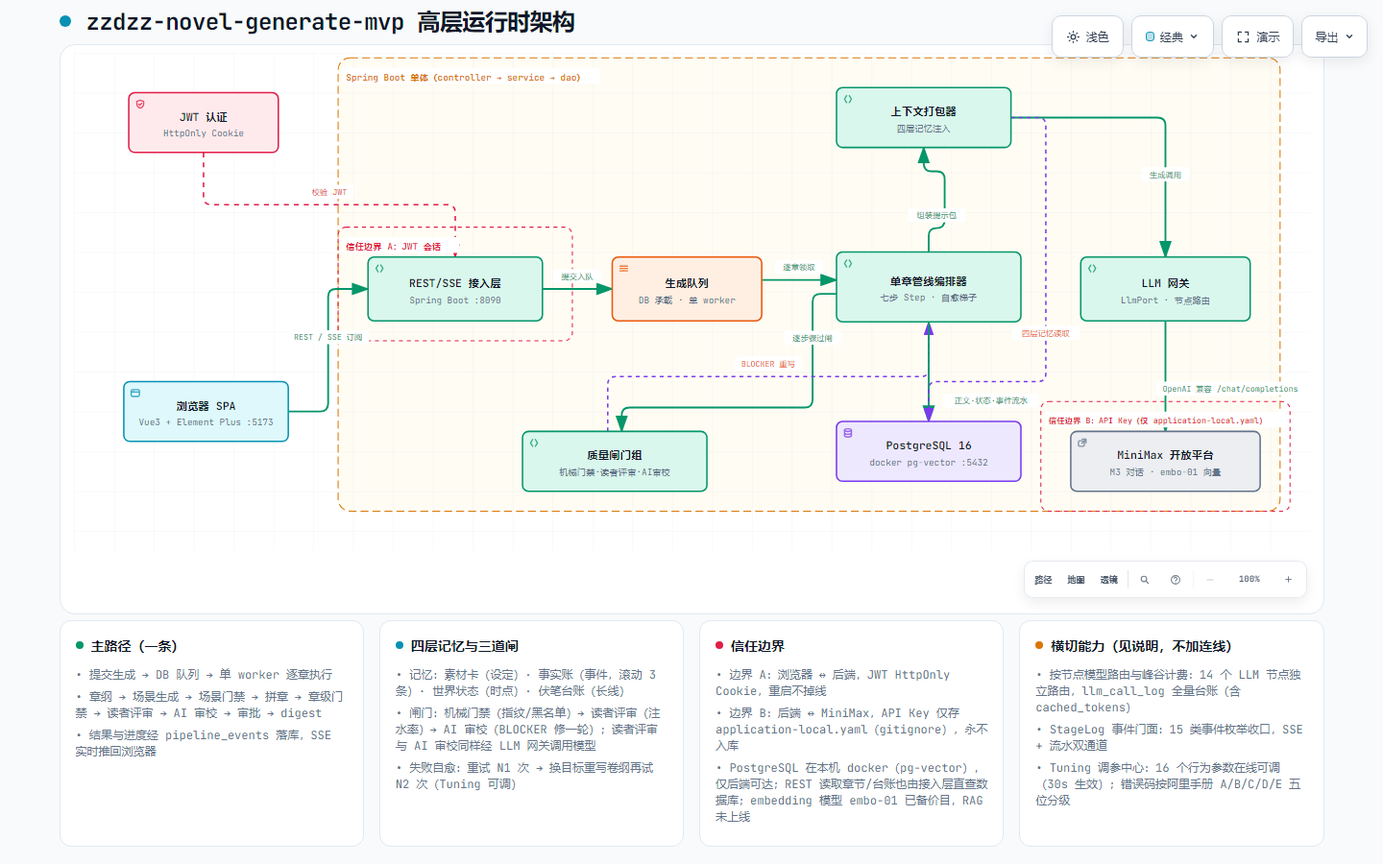
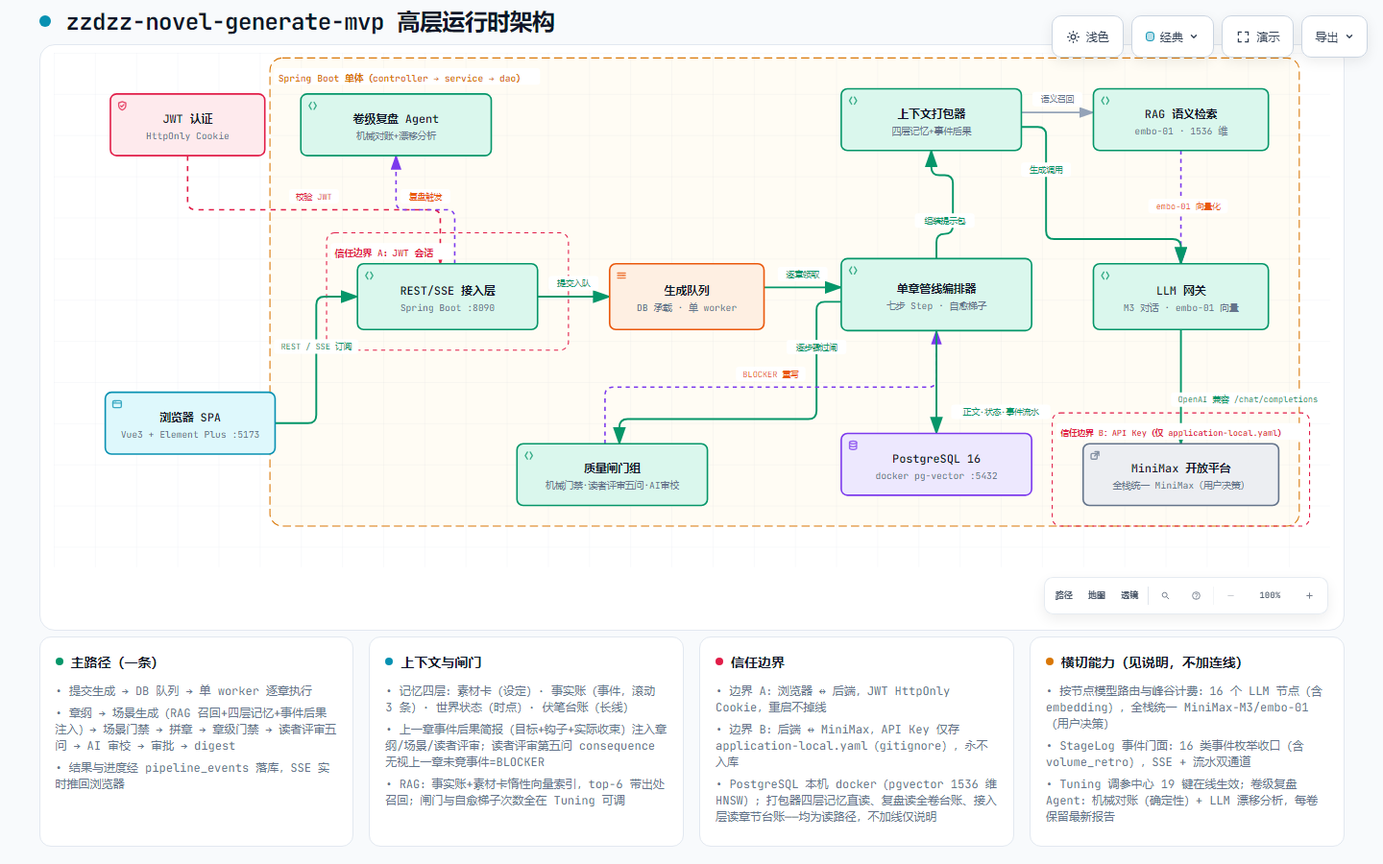
docs(architecture): 架构图 v2 纳入 RAG 与卷级复盘组件
12 组件：新增 RAG 语义检索（embo-01 向量化）与卷级复盘 Agent（机械对账+漂移分析）；主路径不变，连线不增（13 条），辅助说明卡片补充调参中心与事件门面；validate 0 诊断、四档视口 containment 全过。

diff --git a/docs/architecture/runtime-architecture.html b/docs/architecture/runtime-architecture.html
@@ -5156,7 +5156,7 @@ OTHER DEALINGS IN THE FONT SOFTWARE.
         <rect width="100%" height="100%" fill="url(#grid)" />
 
         <!-- Boundaries (behind everything) -->
-        <rect data-graph-role="structural-frame" data-composition-frame-kind="region" data-composition-frame-id="0" data-composition-frame-label="Spring Boot 单体（controller → service → dao）" x="265" y="5" width="945" height="455" rx="12" class="c-region" stroke-width="1"/>
+        <rect data-graph-role="structural-frame" data-composition-frame-kind="region" data-composition-frame-id="0" data-composition-frame-label="Spring Boot 单体（controller → service → dao）" x="210" y="5" width="1000" height="455" rx="12" class="c-region" stroke-width="1"/>
 
         <rect data-graph-role="structural-frame" data-composition-frame-kind="security-group" data-composition-frame-id="1" data-composition-frame-label="信任边界 A：JWT 会话" x="265" y="175" width="235" height="114" rx="8" class="c-security-group" stroke-width="1"/>
 
@@ -5164,16 +5164,18 @@ OTHER DEALINGS IN THE FONT SOFTWARE.
 
         <!-- Connection paths (before components for correct z-order) -->
         <path data-edge-from="spa" data-edge-to="api" data-edge-label="REST / SSE 订阅" data-edge-key="0" data-edge-id="spa-api" data-composition-points="215,360;255,360;255,237;295,237" d="M 215 360 L 247 360 Q 255 360 255 352 L 255 245 Q 255 237 263 237 L 295 237" class="a-emphasis" stroke-width="1.8" marker-end="url(#arrowhead-emphasis)"/>
-        <path data-edge-from="auth" data-edge-to="api" data-edge-label="校验 JWT" data-edge-key="1" data-edge-id="auth-api" data-composition-points="130,100;130,152.5;382.5,152.5;382.5,205" d="M 130 100 L 130 144.5 Q 130 152.5 138 152.5 L 374.5 152.5 Q 382.5 152.5 382.5 160.5 L 382.5 205" class="a-security" stroke-width="1.5" marker-end="url(#arrowhead-security)"/>
+        <path data-edge-from="auth" data-edge-to="api" data-edge-label="校验 JWT" data-edge-key="1" data-edge-id="auth-api" data-composition-points="130,100;130,152.5;375.5,152.5;375.5,205" d="M 130 100 L 130 144.5 Q 130 152.5 138 152.5 L 367.5 152.5 Q 375.5 152.5 375.5 160.5 L 375.5 205" class="a-security" stroke-width="1.5" marker-end="url(#arrowhead-security)"/>
         <path data-edge-from="api" data-edge-to="queue" data-edge-label="提交入队" data-edge-key="2" data-edge-id="api-queue" data-composition-points="470,237;540,237" d="M 470 237 L 540 237" class="a-emphasis" stroke-width="1.8" marker-end="url(#arrowhead-emphasis)"/>
         <path data-edge-from="queue" data-edge-to="pipeline" data-edge-label="逐章领取" data-edge-key="3" data-edge-id="queue-pipeline" data-composition-points="690,228;765,228" d="M 690 228 L 765 228" class="a-emphasis" stroke-width="1.8" marker-end="url(#arrowhead-emphasis)"/>
         <path data-edge-from="pipeline" data-edge-to="packer" data-edge-label="组装提示包" data-edge-key="4" data-edge-id="pipeline-packer" data-composition-points="857.5,200;857.5,176;873.5,176;873.5,119;852.5,119;852.5,95" d="M 857.5 200 L 857.5 184 Q 857.5 176 865.5 176 L 865.5 176 Q 873.5 176 873.5 168 L 873.5 127 Q 873.5 119 865.5 119 L 860.5 119 Q 852.5 119 852.5 111 L 852.5 95" class="a-emphasis" stroke-width="1.8" marker-end="url(#arrowhead-emphasis)"/>
-        <path data-edge-from="packer" data-edge-to="llmgw" data-edge-label="生成调用" data-edge-key="5" data-edge-id="packer-llmgw" data-composition-points="940,65;1095,65;1095,205" d="M 940 65 L 1087 65 Q 1095 65 1095 73 L 1095 205" class="a-emphasis" stroke-width="1.8" marker-end="url(#arrowhead-emphasis)"/>
-        <path data-edge-from="llmgw" data-edge-to="minimax" data-edge-label="OpenAI 兼容 /chat/completions" data-edge-key="6" data-edge-id="llmgw-minimax" data-composition-points="1095,269;1095,380" d="M 1095 269 L 1095 380" class="a-emphasis" stroke-width="1.8" marker-end="url(#arrowhead-emphasis)"/>
-        <path data-edge-from="pipeline" data-edge-to="gates" data-edge-label="逐步骤过闸" data-edge-key="7" data-edge-id="pipeline-gates" data-composition-points="765,242;741,242;741,356;549.5,356;549.5,380" d="M 765 242 L 749 242 Q 741 242 741 250 L 741 348 Q 741 356 733 356 L 557.5 356 Q 549.5 356 549.5 364 L 549.5 380" class="a-emphasis" stroke-width="1.8" marker-end="url(#arrowhead-emphasis)"/>
-        <path data-edge-from="gates" data-edge-to="pipeline" data-edge-label="BLOCKER 重写" data-edge-key="8" data-edge-id="gates-pipeline" data-composition-points="535.5,380;535.5,325;857.5,325;857.5,270" d="M 535.5 380 L 535.5 333 Q 535.5 325 543.5 325 L 849.5 325 Q 857.5 325 857.5 317 L 857.5 270" class="a-dashed" stroke-width="1.5" marker-end="url(#arrowhead-dashed)"/>
-        <path data-edge-from="pipeline" data-edge-to="db" data-edge-label="正文·状态·事件流水" data-edge-key="9" data-edge-id="pipeline-db" data-composition-points="857.5,270;857.5,370" d="M 857.5 270 L 857.5 370" class="a-emphasis" stroke-width="1.8" marker-end="url(#arrowhead-emphasis)"/>
-        <path data-edge-from="packer" data-edge-to="db" data-edge-label="四层记忆读取" data-edge-key="10" data-edge-id="packer-db" data-composition-points="940,65;975,65;975,330;857.5,330;857.5,370" d="M 940 65 L 967 65 Q 975 65 975 73 L 975 322 Q 975 330 967 330 L 865.5 330 Q 857.5 330 857.5 338 L 857.5 370" class="a-dashed" stroke-width="1.5" marker-end="url(#arrowhead-dashed)"/>
+        <path data-edge-from="packer" data-edge-to="rag" data-edge-label="语义召回" data-edge-key="5" data-edge-id="packer-rag" data-composition-points="940,58;1010,58" d="M 940 58 L 1010 58" class="a-default" stroke-width="1.5" marker-end="url(#arrowhead)"/>
+        <path data-edge-from="rag" data-edge-to="llmgw" data-edge-label="embo-01 向量化" data-edge-key="6" data-edge-id="rag-llmgw" data-composition-points="1095,95;1095,205" d="M 1095 95 L 1095 205" class="a-dashed" stroke-width="1.5" marker-end="url(#arrowhead-dashed)"/>
+        <path data-edge-from="packer" data-edge-to="llmgw" data-edge-label="生成调用" data-edge-key="7" data-edge-id="packer-llmgw" data-composition-points="940,72;964,72;964,181;1095,181;1095,205" d="M 940 72 L 956 72 Q 964 72 964 80 L 964 173 Q 964 181 972 181 L 1087 181 Q 1095 181 1095 189 L 1095 205" class="a-emphasis" stroke-width="1.8" marker-end="url(#arrowhead-emphasis)"/>
+        <path data-edge-from="llmgw" data-edge-to="minimax" data-edge-label="OpenAI 兼容 /chat/completions" data-edge-key="8" data-edge-id="llmgw-minimax" data-composition-points="1095,269;1095,380" d="M 1095 269 L 1095 380" class="a-emphasis" stroke-width="1.8" marker-end="url(#arrowhead-emphasis)"/>
+        <path data-edge-from="pipeline" data-edge-to="gates" data-edge-label="逐步骤过闸" data-edge-key="9" data-edge-id="pipeline-gates" data-composition-points="765,242;741,242;741,356;549.5,356;549.5,380" d="M 765 242 L 749 242 Q 741 242 741 250 L 741 348 Q 741 356 733 356 L 557.5 356 Q 549.5 356 549.5 364 L 549.5 380" class="a-emphasis" stroke-width="1.8" marker-end="url(#arrowhead-emphasis)"/>
+        <path data-edge-from="gates" data-edge-to="pipeline" data-edge-label="BLOCKER 重写" data-edge-key="10" data-edge-id="gates-pipeline" data-composition-points="535.5,380;535.5,325;857.5,325;857.5,270" d="M 535.5 380 L 535.5 333 Q 535.5 325 543.5 325 L 849.5 325 Q 857.5 325 857.5 317 L 857.5 270" class="a-dashed" stroke-width="1.5" marker-end="url(#arrowhead-dashed)"/>
+        <path data-edge-from="pipeline" data-edge-to="db" data-edge-label="正文·状态·事件流水" data-edge-key="11" data-edge-id="pipeline-db" data-composition-points="857.5,270;857.5,370" d="M 857.5 270 L 857.5 370" class="a-emphasis" stroke-width="1.8" marker-end="url(#arrowhead-emphasis)"/>
+        <path data-edge-from="api" data-edge-to="retro" data-edge-label="复盘触发" data-edge-key="12" data-edge-id="api-retro" data-composition-points="389.5,205;389.5,152.5;332.5,152.5;332.5,100" d="M 389.5 205 L 389.5 160.5 Q 389.5 152.5 381.5 152.5 L 340.5 152.5 Q 332.5 152.5 332.5 144.5 L 332.5 100" class="a-dashed" stroke-width="1.5" marker-end="url(#arrowhead-dashed)"/>
 
         <!-- Components -->
         <g id="node-auth" data-node-id="auth" data-node-label="JWT 认证" tabindex="0" role="button" aria-label="聚焦JWT 认证，HttpOnly Cookie, 架构组件" aria-pressed="false" data-node-kind="security" data-node-sublabel="HttpOnly Cookie" data-node-tag="无服务端会话" data-node-context="架构组件">
@@ -5187,6 +5189,41 @@ OTHER DEALINGS IN THE FONT SOFTWARE.
           <text data-node-label="" data-detail-anchor="" x="130" y="68" class="t-primary" font-size="11" font-weight="600" text-anchor="middle">JWT 认证</text>
         <text data-detail="context" x="130" y="84" class="t-muted" font-size="9" text-anchor="middle">HttpOnly Cookie</text>
         <text data-detail="fine" x="130" y="92" class="t-security" font-size="7" text-anchor="middle">无服务端会话</text>
+        </g>
+
+        <g id="node-retro" data-node-id="retro" data-node-label="卷级复盘 Agent" tabindex="0" role="button" aria-label="聚焦卷级复盘 Agent，机械对账+漂移分析, Spring Boot 单体（controller → service → dao）" aria-pressed="false" data-node-kind="backend" data-node-sublabel="机械对账+漂移分析" data-node-tag="每卷最新报告" data-node-context="Spring Boot 单体（controller → service → dao）">
+          <title>卷级复盘 Agent · 机械对账+漂移分析 · Spring Boot 单体（controller → service → dao） · 每卷最新报告</title>
+          <rect x="240" y="40" width="185" height="60" rx="6" class="c-mask"/>
+          <rect x="240" y="40" width="185" height="60" rx="6" class="c-backend" stroke-width="1.5"/>
+          <g aria-hidden="true" data-semantic-sigil="backend" class="semantic-sigil s-backend" transform="translate(246 46) scale(0.6875)">
+            <path d="M6 3 3 8l3 5M10 3l3 5-3 5"/>
+          </g>
+          <text data-node-label="" data-detail-anchor="" x="332.5" y="68" class="t-primary" font-size="11" font-weight="600" text-anchor="middle">卷级复盘 Agent</text>
+        <text data-detail="context" x="332.5" y="84" class="t-muted" font-size="9" text-anchor="middle">机械对账+漂移分析</text>
+        <text data-detail="fine" x="332.5" y="92" class="t-backend" font-size="7" text-anchor="middle">每卷最新报告</text>
+        </g>
+
+        <g id="node-packer" data-node-id="packer" data-node-label="上下文打包器" tabindex="0" role="button" aria-label="聚焦上下文打包器，四层记忆+事件后果, Spring Boot 单体（controller → service → dao）" aria-pressed="false" data-node-kind="backend" data-node-sublabel="四层记忆+事件后果" data-node-context="Spring Boot 单体（controller → service → dao）">
+          <title>上下文打包器 · 四层记忆+事件后果 · Spring Boot 单体（controller → service → dao）</title>
+          <rect x="765" y="35" width="175" height="60" rx="6" class="c-mask"/>
+          <rect x="765" y="35" width="175" height="60" rx="6" class="c-backend" stroke-width="1.5"/>
+          <g aria-hidden="true" data-semantic-sigil="backend" class="semantic-sigil s-backend" transform="translate(771 41) scale(0.6875)">
+            <path d="M6 3 3 8l3 5M10 3l3 5-3 5"/>
+          </g>
+          <text data-node-label="" data-detail-anchor="" x="852.5" y="63" class="t-primary" font-size="11" font-weight="600" text-anchor="middle">上下文打包器</text>
+        <text data-detail="context" x="852.5" y="79" class="t-muted" font-size="9" text-anchor="middle">四层记忆+事件后果</text>
+        </g>
+
+        <g id="node-rag" data-node-id="rag" data-node-label="RAG 语义检索" tabindex="0" role="button" aria-label="聚焦RAG 语义检索，embo-01 · 1536 维, Spring Boot 单体（controller → service → dao）" aria-pressed="false" data-node-kind="backend" data-node-sublabel="embo-01 · 1536 维" data-node-tag="惰性向量索引" data-node-context="Spring Boot 单体（controller → service → dao）">
+          <title>RAG 语义检索 · embo-01 · 1536 维 · Spring Boot 单体（controller → service → dao） · 惰性向量索引</title>
+          <rect x="1010" y="35" width="170" height="60" rx="6" class="c-mask"/>
+          <rect x="1010" y="35" width="170" height="60" rx="6" class="c-backend" stroke-width="1.5"/>
+          <g aria-hidden="true" data-semantic-sigil="backend" class="semantic-sigil s-backend" transform="translate(1016 41) scale(0.6875)">
+            <path d="M6 3 3 8l3 5M10 3l3 5-3 5"/>
+          </g>
+          <text data-node-label="" data-detail-anchor="" x="1095" y="63" class="t-primary" font-size="11" font-weight="600" text-anchor="middle">RAG 语义检索</text>
+        <text data-detail="context" x="1095" y="79" class="t-muted" font-size="9" text-anchor="middle">embo-01 · 1536 维</text>
+        <text data-detail="fine" x="1095" y="87" class="t-backend" font-size="7" text-anchor="middle">惰性向量索引</text>
         </g>
 
         <g id="node-spa" data-node-id="spa" data-node-label="浏览器 SPA" tabindex="0" role="button" aria-label="聚焦浏览器 SPA，Vue3 + Element Plus :5173, 架构组件" aria-pressed="false" data-node-kind="frontend" data-node-sublabel="Vue3 + Element Plus :5173" data-node-context="架构组件">
@@ -5242,31 +5279,20 @@ OTHER DEALINGS IN THE FONT SOFTWARE.
         <text data-detail="fine" x="857.5" y="262" class="t-backend" font-size="7" text-anchor="middle">章纲→场景→门禁→评审→审批→digest</text>
         </g>
 
-        <g id="node-packer" data-node-id="packer" data-node-label="上下文打包器" tabindex="0" role="button" aria-label="聚焦上下文打包器，四层记忆注入, Spring Boot 单体（controller → service → dao）" aria-pressed="false" data-node-kind="backend" data-node-sublabel="四层记忆注入" data-node-context="Spring Boot 单体（controller → service → dao）">
-          <title>上下文打包器 · 四层记忆注入 · Spring Boot 单体（controller → service → dao）</title>
-          <rect x="765" y="35" width="175" height="60" rx="6" class="c-mask"/>
-          <rect x="765" y="35" width="175" height="60" rx="6" class="c-backend" stroke-width="1.5"/>
-          <g aria-hidden="true" data-semantic-sigil="backend" class="semantic-sigil s-backend" transform="translate(771 41) scale(0.6875)">
-            <path d="M6 3 3 8l3 5M10 3l3 5-3 5"/>
-          </g>
-          <text data-node-label="" data-detail-anchor="" x="852.5" y="63" class="t-primary" font-size="11" font-weight="600" text-anchor="middle">上下文打包器</text>
-        <text data-detail="context" x="852.5" y="79" class="t-muted" font-size="9" text-anchor="middle">四层记忆注入</text>
-        </g>
-
-        <g id="node-llmgw" data-node-id="llmgw" data-node-label="LLM 网关" tabindex="0" role="button" aria-label="聚焦LLM 网关，LlmPort · 节点路由, Spring Boot 单体（controller → service → dao）" aria-pressed="false" data-node-kind="backend" data-node-sublabel="LlmPort · 节点路由" data-node-tag="峰谷计费" data-node-context="Spring Boot 单体（controller → service → dao）">
-          <title>LLM 网关 · LlmPort · 节点路由 · Spring Boot 单体（controller → service → dao） · 峰谷计费</title>
+        <g id="node-llmgw" data-node-id="llmgw" data-node-label="LLM 网关" tabindex="0" role="button" aria-label="聚焦LLM 网关，M3 对话 · embo-01 向量, Spring Boot 单体（controller → service → dao）" aria-pressed="false" data-node-kind="backend" data-node-sublabel="M3 对话 · embo-01 向量" data-node-tag="峰谷计费" data-node-context="Spring Boot 单体（controller → service → dao）">
+          <title>LLM 网关 · M3 对话 · embo-01 向量 · Spring Boot 单体（controller → service → dao） · 峰谷计费</title>
           <rect x="1010" y="205" width="170" height="64" rx="6" class="c-mask"/>
           <rect x="1010" y="205" width="170" height="64" rx="6" class="c-backend" stroke-width="1.5"/>
           <g aria-hidden="true" data-semantic-sigil="backend" class="semantic-sigil s-backend" transform="translate(1016 211) scale(0.6875)">
             <path d="M6 3 3 8l3 5M10 3l3 5-3 5"/>
           </g>
           <text data-node-label="" data-detail-anchor="" x="1095" y="235" class="t-primary" font-size="11" font-weight="600" text-anchor="middle">LLM 网关</text>
-        <text data-detail="context" x="1095" y="251" class="t-muted" font-size="9" text-anchor="middle">LlmPort · 节点路由</text>
+        <text data-detail="context" x="1095" y="251" class="t-muted" font-size="9" text-anchor="middle">M3 对话 · embo-01 向量</text>
         <text data-detail="fine" x="1095" y="261" class="t-backend" font-size="7" text-anchor="middle">峰谷计费</text>
         </g>
 
-        <g id="node-db" data-node-id="db" data-node-label="PostgreSQL 16" tabindex="0" role="button" aria-label="聚焦PostgreSQL 16，docker pg-vector :5432, 架构组件" aria-pressed="false" data-node-kind="database" data-node-sublabel="docker pg-vector :5432" data-node-tag="V15 · Flyway" data-node-context="架构组件">
-          <title>PostgreSQL 16 · docker pg-vector :5432 · 架构组件 · V15 · Flyway</title>
+        <g id="node-db" data-node-id="db" data-node-label="PostgreSQL 16" tabindex="0" role="button" aria-label="聚焦PostgreSQL 16，docker pg-vector :5432, 架构组件" aria-pressed="false" data-node-kind="database" data-node-sublabel="docker pg-vector :5432" data-node-tag="V17 · embeddings·Flyway" data-node-context="架构组件">
+          <title>PostgreSQL 16 · docker pg-vector :5432 · 架构组件 · V17 · embeddings·Flyway</title>
           <rect x="765" y="370" width="185" height="60" rx="6" class="c-mask"/>
           <rect x="765" y="370" width="185" height="60" rx="6" class="c-database" stroke-width="1.5"/>
           <g aria-hidden="true" data-semantic-sigil="database" class="semantic-sigil s-database" transform="translate(771 376) scale(0.6875)">
@@ -5275,23 +5301,23 @@ OTHER DEALINGS IN THE FONT SOFTWARE.
           </g>
           <text data-node-label="" data-detail-anchor="" x="857.5" y="398" class="t-primary" font-size="11" font-weight="600" text-anchor="middle">PostgreSQL 16</text>
         <text data-detail="context" x="857.5" y="414" class="t-muted" font-size="9" text-anchor="middle">docker pg-vector :5432</text>
-        <text data-detail="fine" x="857.5" y="422" class="t-database" font-size="7" text-anchor="middle">V15 · Flyway</text>
+        <text data-detail="fine" x="857.5" y="422" class="t-database" font-size="7" text-anchor="middle">V17 · embeddings·Flyway</text>
         </g>
 
-        <g id="node-gates" data-node-id="gates" data-node-label="质量闸门组" tabindex="0" role="button" aria-label="聚焦质量闸门组，机械门禁·读者评审·AI审校, Spring Boot 单体（controller → service → dao）" aria-pressed="false" data-node-kind="backend" data-node-sublabel="机械门禁·读者评审·AI审校" data-node-tag="带意见重写" data-node-context="Spring Boot 单体（controller → service → dao）">
-          <title>质量闸门组 · 机械门禁·读者评审·AI审校 · Spring Boot 单体（controller → service → dao） · 带意见重写</title>
+        <g id="node-gates" data-node-id="gates" data-node-label="质量闸门组" tabindex="0" role="button" aria-label="聚焦质量闸门组，机械门禁·读者评审五问·AI审校, Spring Boot 单体（controller → service → dao）" aria-pressed="false" data-node-kind="backend" data-node-sublabel="机械门禁·读者评审五问·AI审校" data-node-tag="带意见重写" data-node-context="Spring Boot 单体（controller → service → dao）">
+          <title>质量闸门组 · 机械门禁·读者评审五问·AI审校 · Spring Boot 单体（controller → service → dao） · 带意见重写</title>
           <rect x="450" y="380" width="185" height="60" rx="6" class="c-mask"/>
           <rect x="450" y="380" width="185" height="60" rx="6" class="c-backend" stroke-width="1.5"/>
           <g aria-hidden="true" data-semantic-sigil="backend" class="semantic-sigil s-backend" transform="translate(456 386) scale(0.6875)">
             <path d="M6 3 3 8l3 5M10 3l3 5-3 5"/>
           </g>
           <text data-node-label="" data-detail-anchor="" x="542.5" y="408" class="t-primary" font-size="11" font-weight="600" text-anchor="middle">质量闸门组</text>
-        <text data-detail="context" x="542.5" y="424" class="t-muted" font-size="9" text-anchor="middle">机械门禁·读者评审·AI审校</text>
+        <text data-detail="context" x="542.5" y="424" class="t-muted" font-size="9" text-anchor="middle">机械门禁·读者评审五问·AI审校</text>
         <text data-detail="fine" x="542.5" y="432" class="t-backend" font-size="7" text-anchor="middle">带意见重写</text>
         </g>
 
-        <g id="node-minimax" data-node-id="minimax" data-node-label="MiniMax 开放平台" tabindex="0" role="button" aria-label="聚焦MiniMax 开放平台，M3 对话 · embo-01 向量, 信任边界 B：API Key（仅 application-local.yaml）" aria-pressed="false" data-node-kind="external" data-node-sublabel="M3 对话 · embo-01 向量" data-node-context="信任边界 B：API Key（仅 application-local.yaml）">
-          <title>MiniMax 开放平台 · M3 对话 · embo-01 向量 · 信任边界 B：API Key（仅 application-local.yaml）</title>
+        <g id="node-minimax" data-node-id="minimax" data-node-label="MiniMax 开放平台" tabindex="0" role="button" aria-label="聚焦MiniMax 开放平台，全栈统一 MiniMax（用户决策）, 信任边界 B：API Key（仅 application-local.yaml）" aria-pressed="false" data-node-kind="external" data-node-sublabel="全栈统一 MiniMax（用户决策）" data-node-context="信任边界 B：API Key（仅 application-local.yaml）">
+          <title>MiniMax 开放平台 · 全栈统一 MiniMax（用户决策） · 信任边界 B：API Key（仅 application-local.yaml）</title>
           <rect x="1000" y="380" width="190" height="60" rx="6" class="c-mask"/>
           <rect x="1000" y="380" width="190" height="60" rx="6" class="c-external" stroke-width="1.5"/>
           <g aria-hidden="true" data-semantic-sigil="external" class="semantic-sigil s-external" transform="translate(1006 386) scale(0.6875)">
@@ -5299,7 +5325,7 @@ OTHER DEALINGS IN THE FONT SOFTWARE.
             <path d="M8 2.5h5.5V8M13.5 2.5 7.5 8.5"/>
           </g>
           <text data-node-label="" data-detail-anchor="" x="1095" y="408" class="t-primary" font-size="11" font-weight="600" text-anchor="middle">MiniMax 开放平台</text>
-        <text data-detail="context" x="1095" y="424" class="t-muted" font-size="9" text-anchor="middle">M3 对话 · embo-01 向量</text>
+        <text data-detail="context" x="1095" y="424" class="t-muted" font-size="9" text-anchor="middle">全栈统一 MiniMax（用户决策）</text>
         </g>
 
         <!-- Connection labels -->
@@ -5308,8 +5334,8 @@ OTHER DEALINGS IN THE FONT SOFTWARE.
           <text x="255" y="288.5" class="t-backend" font-size="8" text-anchor="middle">REST / SSE 订阅</text>
         </g>
         <g data-detail="context" data-edge-from="auth" data-edge-to="api" data-edge-label="校验 JWT" data-edge-key="1" data-edge-id="auth-api">
-          <rect x="232.05" y="132.5" width="48.4" height="14" rx="3" class="c-mask"/>
-          <text x="256.25" y="142.5" class="t-security" font-size="8" text-anchor="middle">校验 JWT</text>
+          <rect x="228.55" y="132.5" width="48.4" height="14" rx="3" class="c-mask"/>
+          <text x="252.75" y="142.5" class="t-security" font-size="8" text-anchor="middle">校验 JWT</text>
         </g>
         <g data-detail="context" data-edge-from="api" data-edge-to="queue" data-edge-label="提交入队" data-edge-key="2" data-edge-id="api-queue">
           <rect x="480.8" y="217" width="48.4" height="14" rx="3" class="c-mask"/>
@@ -5323,35 +5349,43 @@ OTHER DEALINGS IN THE FONT SOFTWARE.
           <rect x="836.5" y="156" width="58" height="14" rx="3" class="c-mask"/>
           <text x="865.5" y="166" class="t-backend" font-size="8" text-anchor="middle">组装提示包</text>
         </g>
-        <g data-detail="context" data-edge-from="packer" data-edge-to="llmgw" data-edge-label="生成调用" data-edge-key="5" data-edge-id="packer-llmgw">
-          <rect x="1070.8" y="115" width="48.4" height="14" rx="3" class="c-mask"/>
-          <text x="1095" y="125" class="t-backend" font-size="8" text-anchor="middle">生成调用</text>
+        <g data-detail="context" data-edge-from="packer" data-edge-to="rag" data-edge-label="语义召回" data-edge-key="5" data-edge-id="packer-rag">
+          <rect x="950.8" y="38" width="48.4" height="14" rx="3" class="c-mask"/>
+          <text x="975" y="48" class="t-muted" font-size="8" text-anchor="middle">语义召回</text>
         </g>
-        <g data-detail="context" data-edge-from="llmgw" data-edge-to="minimax" data-edge-label="OpenAI 兼容 /chat/completions" data-edge-key="6" data-edge-id="llmgw-minimax">
+        <g data-detail="context" data-edge-from="rag" data-edge-to="llmgw" data-edge-label="embo-01 向量化" data-edge-key="6" data-edge-id="rag-llmgw">
+          <rect x="1063.4" y="142" width="77.2" height="14" rx="3" class="c-mask"/>
+          <text x="1102" y="152" class="t-messagebus" font-size="8" text-anchor="middle">embo-01 向量化</text>
+        </g>
+        <g data-detail="context" data-edge-from="packer" data-edge-to="llmgw" data-edge-label="生成调用" data-edge-key="7" data-edge-id="packer-llmgw">
+          <rect x="939.8" y="106.5" width="48.4" height="14" rx="3" class="c-mask"/>
+          <text x="964" y="116.5" class="t-backend" font-size="8" text-anchor="middle">生成调用</text>
+        </g>
+        <g data-detail="context" data-edge-from="llmgw" data-edge-to="minimax" data-edge-label="OpenAI 兼容 /chat/completions" data-edge-key="8" data-edge-id="llmgw-minimax">
           <rect x="1085.4" y="330" width="149.2" height="14" rx="3" class="c-mask"/>
           <text x="1160" y="340" class="t-backend" font-size="8" text-anchor="middle">OpenAI 兼容 /chat/completions</text>
         </g>
-        <g data-detail="context" data-edge-from="pipeline" data-edge-to="gates" data-edge-label="逐步骤过闸" data-edge-key="7" data-edge-id="pipeline-gates">
+        <g data-detail="context" data-edge-from="pipeline" data-edge-to="gates" data-edge-label="逐步骤过闸" data-edge-key="9" data-edge-id="pipeline-gates">
           <rect x="712" y="279" width="58" height="14" rx="3" class="c-mask"/>
           <text x="741" y="289" class="t-backend" font-size="8" text-anchor="middle">逐步骤过闸</text>
         </g>
-        <g data-detail="context" data-edge-from="gates" data-edge-to="pipeline" data-edge-label="BLOCKER 重写" data-edge-key="8" data-edge-id="gates-pipeline">
+        <g data-detail="context" data-edge-from="gates" data-edge-to="pipeline" data-edge-label="BLOCKER 重写" data-edge-key="10" data-edge-id="gates-pipeline">
           <rect x="662.7" y="305" width="67.6" height="14" rx="3" class="c-mask"/>
           <text x="696.5" y="315" class="t-messagebus" font-size="8" text-anchor="middle">BLOCKER 重写</text>
         </g>
-        <g data-detail="context" data-edge-from="pipeline" data-edge-to="db" data-edge-label="正文·状态·事件流水" data-edge-key="9" data-edge-id="pipeline-db">
+        <g data-detail="context" data-edge-from="pipeline" data-edge-to="db" data-edge-label="正文·状态·事件流水" data-edge-key="11" data-edge-id="pipeline-db">
           <rect x="871.8" y="342" width="96.39999999999999" height="14" rx="3" class="c-mask"/>
           <text x="920" y="352" class="t-backend" font-size="8" text-anchor="middle">正文·状态·事件流水</text>
         </g>
-        <g data-detail="context" data-edge-from="packer" data-edge-to="db" data-edge-label="四层记忆读取" data-edge-key="10" data-edge-id="packer-db">
-          <rect x="941.2" y="274" width="67.6" height="14" rx="3" class="c-mask"/>
-          <text x="975" y="284" class="t-messagebus" font-size="8" text-anchor="middle">四层记忆读取</text>
+        <g data-detail="context" data-edge-from="api" data-edge-to="retro" data-edge-label="复盘触发" data-edge-key="12" data-edge-id="api-retro">
+          <rect x="336.8" y="132.5" width="48.4" height="14" rx="3" class="c-mask"/>
+          <text x="361" y="142.5" class="t-messagebus" font-size="8" text-anchor="middle">复盘触发</text>
         </g>
 
         <!-- Boundary labels (foreground masks keep routes out of titles) -->
         <g data-graph-role="structural-frame-label" data-composition-frame-id="0" data-composition-frame-kind="region" data-composition-frame-label="Spring Boot 单体（controller → service → dao）">
-          <rect data-graph-role="structural-frame-label-mask" x="269" y="15" width="258.4" height="16" rx="3" class="c-mask"/>
-          <text data-boundary-label="" x="273" y="28" class="t-cloud" font-size="9" font-weight="600">Spring Boot 单体（controller → service → dao）</text>
+          <rect data-graph-role="structural-frame-label-mask" x="214" y="15" width="258.4" height="16" rx="3" class="c-mask"/>
+          <text data-boundary-label="" x="218" y="28" class="t-cloud" font-size="9" font-weight="600">Spring Boot 单体（controller → service → dao）</text>
         </g>
 
         <g data-graph-role="structural-frame-label" data-composition-frame-id="1" data-composition-frame-kind="security-group" data-composition-frame-label="信任边界 A：JWT 会话">
@@ -5559,7 +5593,7 @@ OTHER DEALINGS IN THE FONT SOFTWARE.
         </div>
         <ul>
           <li>&bull; 提交生成 → DB 队列 → 单 worker 逐章执行</li>
-          <li>&bull; 章纲 → 场景生成 → 场景门禁 → 拼章 → 章级门禁 → 读者评审 → AI 审校 → 审批 → digest</li>
+          <li>&bull; 章纲 → 场景生成（RAG 召回+四层记忆+事件后果注入）→ 场景门禁 → 拼章 → 章级门禁 → 读者评审五问 → AI 审校 → 审批 → digest</li>
           <li>&bull; 结果与进度经 pipeline_events 落库，SSE 实时推回浏览器</li>
         </ul>
       </div>
@@ -5567,12 +5601,12 @@ OTHER DEALINGS IN THE FONT SOFTWARE.
       <div class="card">
         <div class="card-header">
           <div class="card-dot cyan"></div>
-          <h3>四层记忆与三道闸</h3>
+          <h3>上下文与闸门</h3>
         </div>
         <ul>
-          <li>&bull; 记忆：素材卡（设定）· 事实账（事件，滚动 3 条）· 世界状态（时点）· 伏笔台账（长线）</li>
-          <li>&bull; 闸门：机械门禁（指纹/黑名单）→ 读者评审（注水率）→ AI 审校（BLOCKER 修一轮）；读者评审与 AI 审校同样经 LLM 网关调用模型</li>
-          <li>&bull; 失败自愈：重试 N1 次 → 换目标重写卷纲再试 N2 次（Tuning 可调）</li>
+          <li>&bull; 记忆四层：素材卡（设定）· 事实账（事件，滚动 3 条）· 世界状态（时点）· 伏笔台账（长线）</li>
+          <li>&bull; 上一章事件后果简报（目标+钩子+实际收束）注入章纲/场景/读者评审；读者评审第五问 consequence 无视上一章未竟事件=BLOCKER</li>
+          <li>&bull; RAG：事实账+素材卡惰性向量索引，top-6 带出处召回；闸门与自愈梯子次数全在 Tuning 可调</li>
         </ul>
       </div>
 
@@ -5584,7 +5618,7 @@ OTHER DEALINGS IN THE FONT SOFTWARE.
         <ul>
           <li>&bull; 边界 A：浏览器 ↔ 后端，JWT HttpOnly Cookie，重启不掉线</li>
           <li>&bull; 边界 B：后端 ↔ MiniMax，API Key 仅存 application-local.yaml（gitignore），永不入库</li>
-          <li>&bull; PostgreSQL 在本机 docker（pg-vector），仅后端可达；REST 读取章节/台账也由接入层直查数据库；embedding 模型 embo-01 已备价目，RAG 未上线</li>
+          <li>&bull; PostgreSQL 本机 docker（pgvector 1536 维 HNSW）；打包器四层记忆直读、复盘读全卷台账、接入层读章节台账——均为读路径，不加线仅说明</li>
         </ul>
       </div>
 
@@ -5594,9 +5628,9 @@ OTHER DEALINGS IN THE FONT SOFTWARE.
           <h3>横切能力（见说明，不加连线）</h3>
         </div>
         <ul>
-          <li>&bull; 按节点模型路由与峰谷计费：14 个 LLM 节点独立路由，llm_call_log 全量台账（含 cached_tokens）</li>
-          <li>&bull; StageLog 事件门面：15 类事件枚举收口，SSE + 流水双通道</li>
-          <li>&bull; Tuning 调参中心：16 个行为参数在线可调（30s 生效）；错误码按阿里手册 A/B/C/D/E 五位分级</li>
+          <li>&bull; 按节点模型路由与峰谷计费：16 个 LLM 节点（含 embedding），全栈统一 MiniMax-M3/embo-01（用户决策）</li>
+          <li>&bull; StageLog 事件门面：16 类事件枚举收口（含 volume_retro），SSE + 流水双通道</li>
+          <li>&bull; Tuning 调参中心 19 键在线生效；卷级复盘 Agent：机械对账（确定性）+ LLM 漂移分析，每卷保留最新报告</li>
         </ul>
       </div>
     </div>
